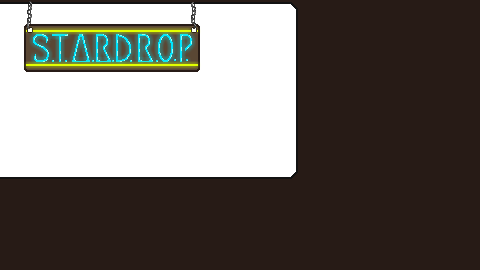
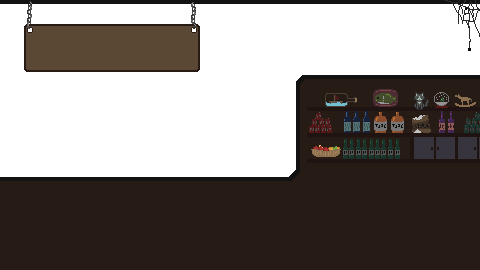
image update and drink result calculation

Changed region(s): [[0.5938, 0.0, 1.0, 0.2963], [0.625, 0.3259, 1.0, 0.5926], [0.0312, 0.0889, 0.4375, 0.2667]]

diff --git a/app/templates/game_scene.html b/app/templates/game_scene.html
@@ -65,14 +65,26 @@
     <div id="content" style = "display:flex; text-align: left;">
       <div style="flex: 80%; image-rendering: pixelated; position: relative">
         <div style="position:relative; width: 100%; padding-bottom: 56.25%">
-        <img src="../static/art/wall.png" style="background-image: url(../static/art/background.gif); animation: wahookazooie 3s infinite; position: absolute; z-index: 1; width: 100%;">
-        <img src="../static/art/bartender.png" style="position: absolute; z-index: 2; width: 100%">
-        <img src="../static/art/bar.png" style="animation: wahookazooie 3s infinite; position: absolute; z-index: 3; width: 100%;">
-        <img src="../static/art/santa.png" style="position: absolute; z-index: 4; width: 100%">
-        <img src="../static/art/barstools.png" style="position: absolute; z-index: 5; width: 100%;">
+        <img src="../static/art/wall.png" style="background-image: url(../static/art/background.gif); position: absolute; z-index: 1; width: 100%;">
+        <img src="../static/art/signneon.png" style="animation: wahookazooie 3s infinite; position: absolute; z-index: 2; width: 100%">
+        <img src="../static/art/bartender.png" style="position: absolute; z-index: 3; width: 100%;">
+        <img src="../static/art/bar.png" style="position: absolute; z-index: 4; width: 100%;">
+        <img src="../static/art/barneon.png" style="animation: wahookazooie 3s infinite; position: absolute; z-index: 5; width: 100%;">
+        <img src="../static/art/santa.png" style="position: absolute; z-index: 6; width: 100%">
+        <img src="../static/art/cowboy.png" style="position: absolute; z-index: 6; width: 100%">
+        <img src="../static/art/pirate.png" style="position: absolute; z-index: 6; width: 100%">
+        <img src="../static/art/barstools.png" style="position: absolute; z-index: 7; width: 100%;">
         <form action="/order" method="POST">
           <input type="hidden" name="seat_number" value="1">
-          <p><button class="order-button" type="submit" style="left: 55%; top: 80%;">!</button></p>
+          <p><button class="order-button" type="submit" style="left: 40%; top: 80%;">!</button></p>
+        </form>
+        <form action="/order" method="POST">
+          <input type="hidden" name="seat_number" value="2">
+          <p><button class="order-button" type="submit" style="left: 78%; top: 80%;">!</button></p>
+        </form>
+        <form action="/order" method="POST">
+          <input type="hidden" name="seat_number" value="3">
+          <p><button class="order-button" type="submit" style="left: 95%; top: 80%;">!</button></p>
         </form>
         </div>
       </div>
@@ -127,8 +139,9 @@
     </div>
 
     <div class="reveal" id="results" data-reveal>
-      <p>Like: {{ results[0] }}</p>
-      <p>Price: {{ results[1] }}</p>
+      <p>Result: {{ results[0] }}</p>
+      <p>Money Earned (Gold Coins): {{ result[2] }}</p>
+      <p>Money Earned (USD): {{ results[1] }}</p>
     </div>
     
     <script src="https://cdn.jsdelivr.net/npm/jquery@3.6.4/dist/jquery.min.js" crossorigin="anonymous"></script>

diff --git a/app/game_state.py b/app/game_state.py
@@ -7,7 +7,7 @@ from db import *
 import random, json
 
 alcoholOn = True
-npc_at_seat = ["Santa"]
+npc_at_seat = ["Santa", "Pirate", "Cowboy"]
 
 #drink selections / list of ids from api to randomly choose from
 #a if alcohol b if not
@@ -32,24 +32,17 @@ npcDrinkPreferences = {"Santa": {"Flavor": "sweet",
                                  "alcohol" : a2,
                                  "no_alcohol": b2,
                                  "heavy_drinker": False},
-                       "Cowboy": {"Flavor": "fruity",
+                       "Cowboy": {"Flavor": "fruit",
                                   "Likes": "syrup",
                                    "Dislikes": "cream",
-                                   "Favorite": 225156,
+                                   "Favorite": "Milk",
                                    "alcohol" : a1,
                                    "no_alcohol": b1,
                                    "heavy_drinker": True},
-                       "Agent J": {"Flavor": "milky",
-                                   "Likes": "chocolate",
-                                   "Dislikes": "soda",
-                                   "Favorite": 0,
-                                   "alcohol" : a2,
-                                   "no_alcohol": b2,
-                                   "heavy_drinker": False},
                        "Pirate" : {"Flavor": "sour",
                                    "Likes": "fruit",
                                    "Dislikes": "coffee",
-                                   "Favorite": 0,
+                                   "Favorite": "Coconut Milk",
                                    "alcohol" : a1,
                                    "no_alcohol": b1,
                                    "heavy_drinker": True}}
@@ -92,30 +85,52 @@ def npc_drink_order(name):
     else:
         return 0
 
-def calculate_results(npc, drink, contents):
-    pass
+def calculate_results(npc, drink, contents, usd):
     ingredients_used = contents.keys()
     ingredients_needed = drink["ingredients"]
     accuracy = len(ingredients_needed)
     npc_data = npcDrinkPreferences[npc]
-    # ingredient_info = ingredient_data[ingredient]
     like = 5
     price = 0
-    # for ingredient in ingredients_needed:
-    #     if not ingredient in ingredients_used:
-    #         accuracy -= 1
-    # if accuracy < len(ingredients_needed)/2:
-    #     like -= 1
-    # for ingredient in ingredients_used:
-    #     if npc_data["Likes"] in ingredient or npc_data["Likes"] == ingredient_info["flavor"]:
-    #         like += 1
-    #     if npc_data["Favorite"] == ingredient:
-    #         like += 2
-    #     elif npc_data["Dislikes"] == ingredient_info["flavor"]:
-    #         like -= 1
-    #     price += ingredient_info["price"]
-    # return (like, price)
-    return(5, 5)
+    if len(ingredients_used) == 0:
+        return (-5, 0)
+    if (drink["drink"] != "Surprise Me!"):
+        for ingredient in ingredients_needed:
+            if not ingredient in ingredients_used:
+                accuracy -= 1
+        if accuracy < len(ingredients_needed)/2:
+            if accuracy < len(ingredients_needed)/4:
+                like = min(0, like - 2)
+            like = min(0, like - 1)
+    for ingredient in ingredients_used:
+        amount = contents[ingredient]
+        ingredient_info = ingredient_data[ingredient]
+        if ingredient_info["flavor"] == "alcohol":
+            if npc_data["heavy_drinker"]:
+                like += amount - 1
+            else:
+                if contents[ingredient] > 1 or not ingredient in ingredients_needed:
+                    like = min(0, like - 1)
+        else:
+            if npc_data["Likes"].lower() in ingredient or npc_data["Likes"].lower() == ingredient_info["flavor"].lower() or npc_data["Flavor"].lower() == ingredient_info["flavor"]:
+                like += amount
+            if npc_data["Favorite"].lower() == ingredient:
+                like += 2 * amount
+            elif npc_data["Dislikes"].lower() == ingredient_info["flavor"]:
+                like = min(0, like - 1)
+        price += ingredient_info["price"] * amount
+    like -= 5
+    result = "Good Drink!"
+    if like == -5:
+        result = "Terrible!"
+    elif like < 0:
+        result = "Could Be Better..."
+    elif like > 0:
+        "Wicked Drink!"
+    elif like >= 5:
+        result = "Perfection!"
+    money = price * usd
+    return (result, money, price)
     
 def request_coordinates(timestamp):
     url = f"https://api.wheretheiss.at/v1/satellites/25544/positions?timestamps={timestamp}"

diff --git a/app/__init__.py b/app/__init__.py
@@ -177,8 +177,9 @@ def make_drink():
     supplies=json.loads(select_query("SELECT supplies FROM players WHERE username=?", [session["username"]])[0]["supplies"])
     alphabetical_supplies=sorted(list(supplies.keys()))
     for i in range(len(get_all_ingredients())):
-        if (request.form.get(str(i)) != "none"):
-            added_ingredients[alphabetical_supplies[i]] = request.form.get(str(i))
+        amount = request.form.get(str(i))
+        if (amount != "0"):
+            added_ingredients[alphabetical_supplies[i]] = int(amount)
 
     if not check_stock(session["username"], added_ingredients):
         flash("Not enough ingredients to make drink", "error")
@@ -188,7 +189,7 @@ def make_drink():
     session["results"] = results
     general_query(f"UPDATE players SET {session.get('npc').lower()}_opinion = {session.get('npc').lower()}_opinion + ? WHERE username=?", [results[0], session["username"]])
     general_query(f"UPDATE players SET money = money + ? WHERE username=?", [results[1], session["username"]])
-    print(select_query("SELECT * FROM players WHERE username=?", [session["username"]]))
+    #print(select_query("SELECT * FROM players WHERE username=?", [session["username"]]))
     session.pop("drink")
     session.pop("npc")
     return redirect(url_for("game_scene_get"))
